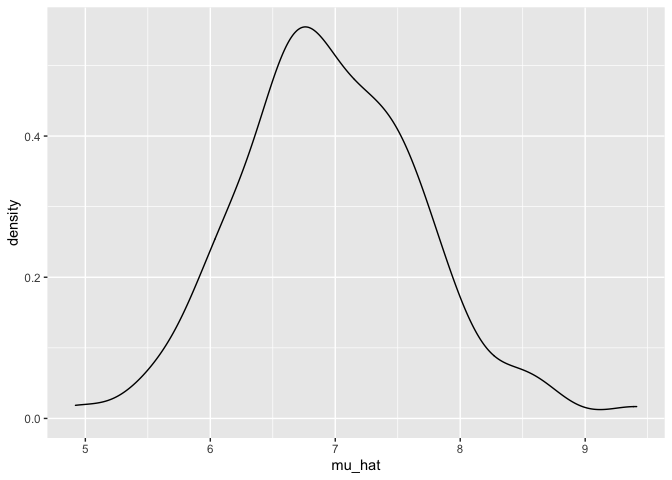
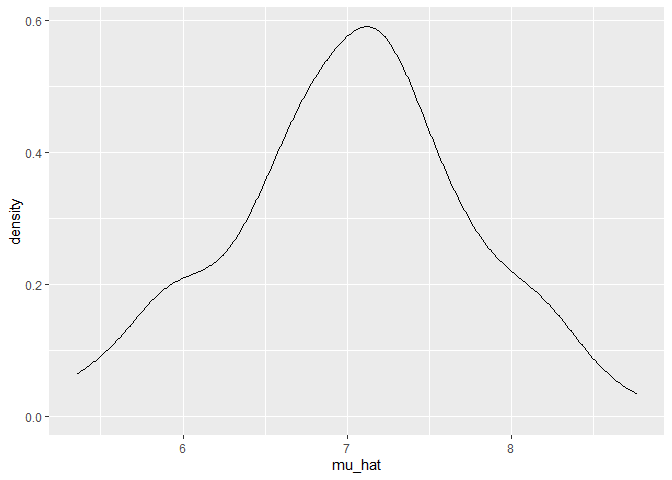
Finished reviewing the lecture content.

diff --git a/Simulation.md b/Simulation.md
@@ -4,10 +4,10 @@ Lectured by Jeff Goldsmith
 2022-11-03
 
     ## ── Attaching packages ─────────────────────────────────────── tidyverse 1.3.2 ──
-    ## ✔ ggplot2 3.3.6      ✔ purrr   0.3.4 
-    ## ✔ tibble  3.1.8      ✔ dplyr   1.0.10
-    ## ✔ tidyr   1.2.1      ✔ stringr 1.4.1 
-    ## ✔ readr   2.1.2      ✔ forcats 0.5.2 
+    ## ✔ ggplot2 3.3.6     ✔ purrr   0.3.4
+    ## ✔ tibble  3.1.8     ✔ dplyr   1.0.9
+    ## ✔ tidyr   1.2.1     ✔ stringr 1.4.1
+    ## ✔ readr   2.1.2     ✔ forcats 0.5.2
     ## ── Conflicts ────────────────────────────────────────── tidyverse_conflicts() ──
     ## ✖ dplyr::filter() masks stats::filter()
     ## ✖ dplyr::lag()    masks stats::lag()
@@ -22,26 +22,24 @@ repeat efgf repeat efgf repeat efgf repeat efgf repeat efgf
 -   `ctrl` + `F` find the word that you want to change. Replace with the
     other words.
 
-## Simulation: mean and sd for one ***n***
+## Simulation: Mean and SD for one ***n***
 
 Generating a sample mean from a normal distribution…
+
+As usual, create a function first.
 
 ``` r
 sim_mean_sd = function(n_obs, mu = 7, sigma = 4) {
   
-  sim_data = tibble(
-    x = rnorm(n = n_obs, mean = mu, sd = sigma),
-  )
+    x = rnorm(n = n_obs, mean = mu, sd = sigma)
   
-  sim_data %>% 
-    summarize(
+  tibble(
       mu_hat = mean(x),
-      sigma_hat = sd(x)
-    )
+      sigma_hat = sd(x))
 }
 ```
 
-How did we use this before?
+Then, test if the function works properly.
 
 ``` r
 sim_mean_sd(n_obs = 30)
@@ -50,9 +48,10 @@ sim_mean_sd(n_obs = 30)
     ## # A tibble: 1 × 2
     ##   mu_hat sigma_hat
     ##    <dbl>     <dbl>
-    ## 1   6.58      4.19
+    ## 1   7.34      4.18
 
-How can we use this now?
+If we run the above code 100 times, we will get 100 different values
+every time. But we can use `for` *loop* or `map`!
 
 ``` r
 output = vector("list", length = 100)
@@ -60,25 +59,26 @@ for (i in 1:100) {
   output[[i]] = sim_mean_sd(n_obs = 30)
 }
 
+# make the results look like a tibble:
 bind_rows(output)
 ```
 
     ## # A tibble: 100 × 2
     ##    mu_hat sigma_hat
     ##     <dbl>     <dbl>
-    ##  1   7.92      3.84
-    ##  2   7.17      3.85
-    ##  3   6.52      3.13
-    ##  4   6.57      3.18
-    ##  5   6.77      4.26
-    ##  6   7.67      3.72
-    ##  7   6.85      4.04
-    ##  8   5.85      3.79
-    ##  9   6.10      3.66
-    ## 10   5.92      3.72
+    ##  1   7.13      3.63
+    ##  2   6.29      3.45
+    ##  3   7.85      4.53
+    ##  4   6.60      3.84
+    ##  5   5.99      4.20
+    ##  6   6.70      3.56
+    ##  7   6.38      2.89
+    ##  8   6.45      3.58
+    ##  9   6.48      3.89
+    ## 10   7.11      3.85
     ## # … with 90 more rows
 
-Let’s use list columns instead.
+We can also do list columns.
 
 ``` r
 sim_results = 
@@ -88,9 +88,11 @@ sim_results =
     iteration = 1:100) %>%   # Another column for iteration, and the rows go from 1 to 100
   # Then create a new column that calculate mean and sd using the function we created.
   mutate(
-    estimate_df = map(sample_size, sim_mean_sd)) %>% 
-  unnest(estimate_df)
+    estimate_measures = map(sample_size, sim_mean_sd)) %>% 
+  unnest(estimate_measures)
 ```
+
+We can make a plot to look at the distribution of all the mean and sd.
 
 ``` r
 sim_results %>% 
@@ -100,25 +102,30 @@ sim_results %>%
 
 ![](Simulation_files/figure-gfm/unnamed-chunk-3-1.png)<!-- -->
 
+``` r
+# Uhmmmm... It kinda look like a "normal" distribution. If we increase the sample size or the number of repetition, it will look more symmetric.
+```
+
 #### What about changing the sample size?
 
-I need to input a list
+I need to input a list with different sample sizes.
 
 ``` r
 sim_results_2 = 
   expand_grid(   
     sample_size = c(30, 60, 120, 240), 
-    iteration = 1:100) %>%   
+    iteration = 1:1000) %>%   
   mutate(
-    estimate_df = map(sample_size, sim_mean_sd)) %>% 
-  unnest(estimate_df)
+    estimate_measures = map(sample_size, sim_mean_sd)) %>% 
+  unnest(estimate_measures)
 ```
 
 ``` r
 sim_results_2 %>% 
+# To create a violin plot, the x-axis cannot be a number, it has to be a factor.
   mutate(
-    sample_size = str_c("N = ", sample_size),
-    sample_size = fct_inorder(sample_size)) %>% 
+    sample_size = str_c("N = ", sample_size), # I am changing how each observation looks like: Before is 30, now is N = 30, etc. Now they become character instead of numeric.
+    sample_size = fct_inorder(sample_size)) %>% # fct_inorder is kinda like SAS order = data
   ggplot(aes(x = sample_size, y = mu_hat)) + 
   geom_violin()
 ```
@@ -126,15 +133,23 @@ sim_results_2 %>%
 ![](Simulation_files/figure-gfm/unnamed-chunk-5-1.png)<!-- -->
 
 ``` r
+# By looking at the plot, I can tell that the mean is at around 7. As the sample size increases, the distribution becomes narrower, meaning standard error becomes smaller.
+```
+
+``` r
 sim_results_2 %>% 
   mutate(
     sample_size = str_c("N = ", sample_size),
     sample_size = fct_inorder(sample_size)) %>% 
+# To check that the standard error becomes smaller as sample size increases, we can do the following:
   group_by(sample_size) %>% 
-  summarize(emp_st_err = sd(mu_hat)) %>% 
-  ggplot(aes(x = sample_size, y = mu_hat)) + 
-  geom_violin()
+  summarize(emp_st_err = sd(mu_hat))
 ```
+
+#### **Two inputs**…
+
+Here I want different sample sizes and different true standard
+deviations.
 
 ``` r
 sim_results_3 = 
@@ -143,10 +158,16 @@ sim_results_3 =
     true_sigma = c(3, 6),
     iteration = 1:100) %>%   
   mutate(
-    estimate_df = 
+    estimate_measures = 
+  # Use "map2" because I am mapping two arguments.
+  # If I don't explicitly tell R .x is sample size and .y is true sigma, R will think the second argument in the map refers to the second argument in the function, which in this case is the mean.
+    # sigma is the third argument in the function.
       map2(.x = sample_size, .y = true_sigma, ~sim_mean_sd(n_obs = .x, sigma = .y))) %>%  # ~ tells R that .x and .y go into this function.
-  unnest(estimate_df)
+  unnest(estimate_measures)
 ```
+
+Now make a plot to see how the distributions change in response to
+different sample sizes and standard errors.
 
 ``` r
 sim_results_3 %>% 
@@ -159,6 +180,8 @@ sim_results_3 %>%
 ```
 
 ![](Simulation_files/figure-gfm/unnamed-chunk-8-1.png)<!-- -->
+
+### `cache`
 
 The `cache = TRUE` argument in a code chunk can be helpful: When it run
 the code one time, it will save the results. So when we knit the
